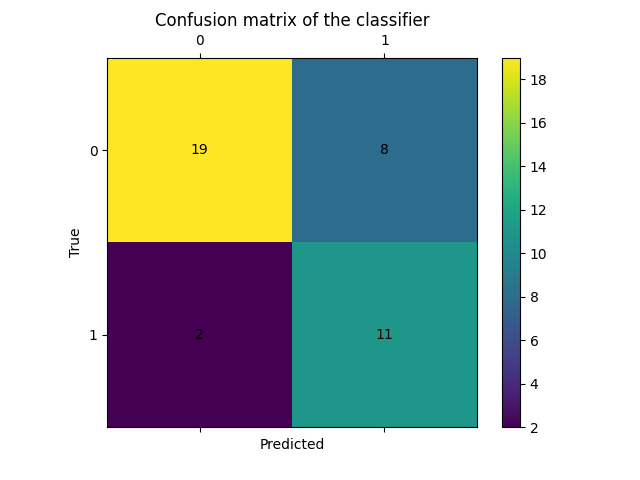
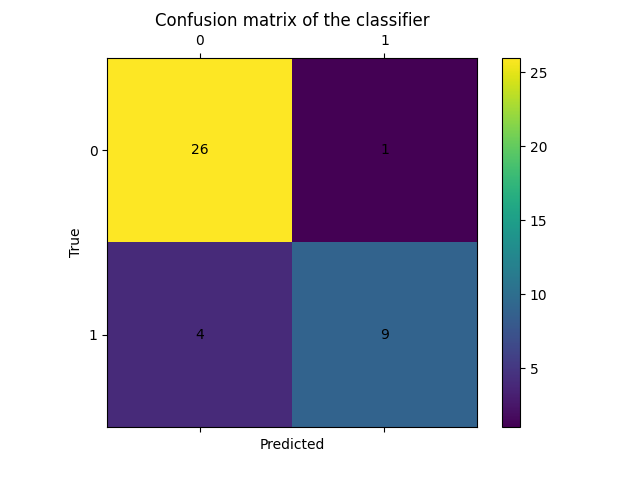
updated runs; included svm linear

diff --git a/scripts/backwardselection.py b/scripts/backwardselection.py
@@ -1,5 +1,6 @@
 import argparse
 from sklearn.inspection import permutation_importance
+from sklearn.preprocessing import MinMaxScaler
 from modelObject import store, openIt
 import pandas as pd
 import os
@@ -41,6 +42,12 @@ if __name__ == '__main__':
     y_train = pd.read_csv(os.path.join(args.folder, 'y_train.csv'))
     x_test = pd.read_csv(os.path.join(args.folder, 'x_test.csv'))
     y_test = pd.read_csv(os.path.join(args.folder, 'y_test.csv'))
+
+    scaler = MinMaxScaler()
+
+    x_train = pd.DataFrame(scaler.fit_transform(x_train), columns=x_train.columns)
+    x_test = pd.DataFrame(scaler.fit_transform(x_test), columns=x_test.columns)
+
 
     boolean = True
     while boolean:
